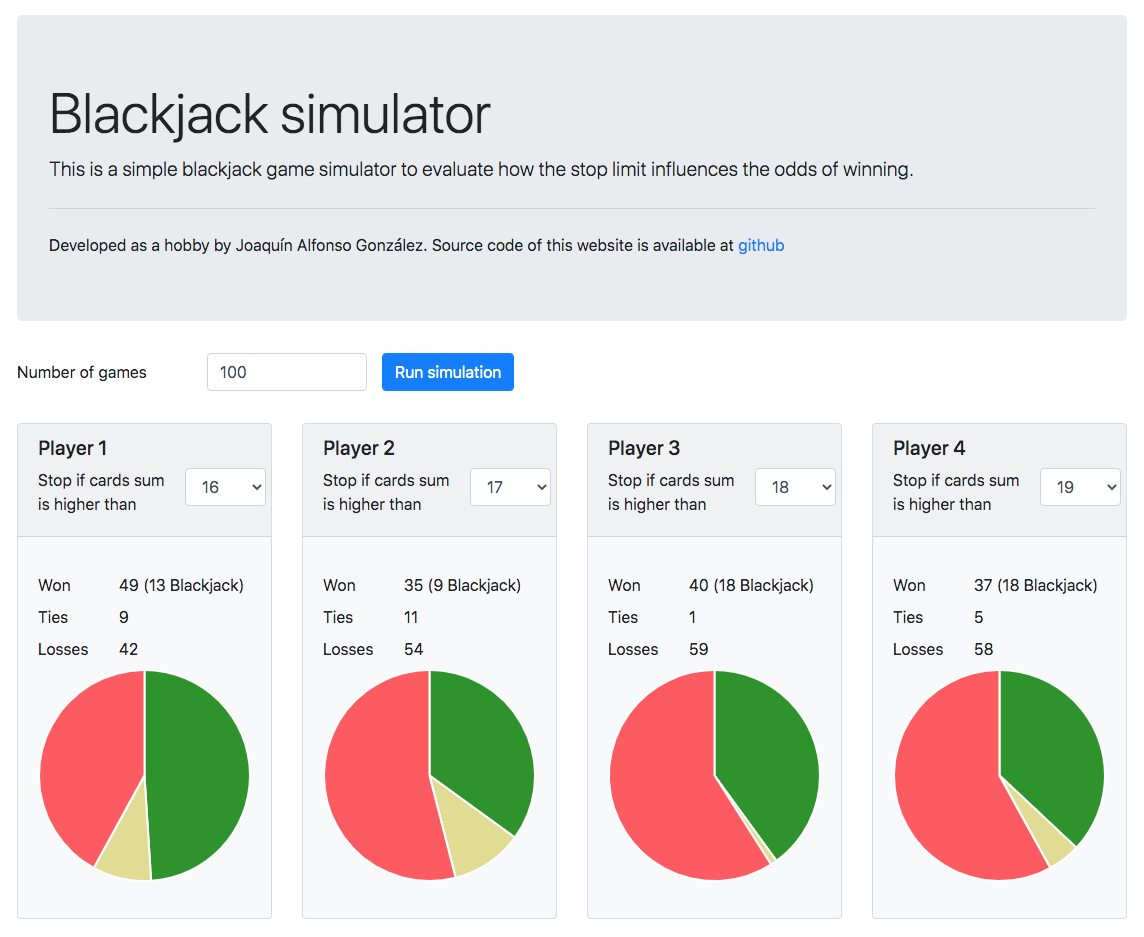
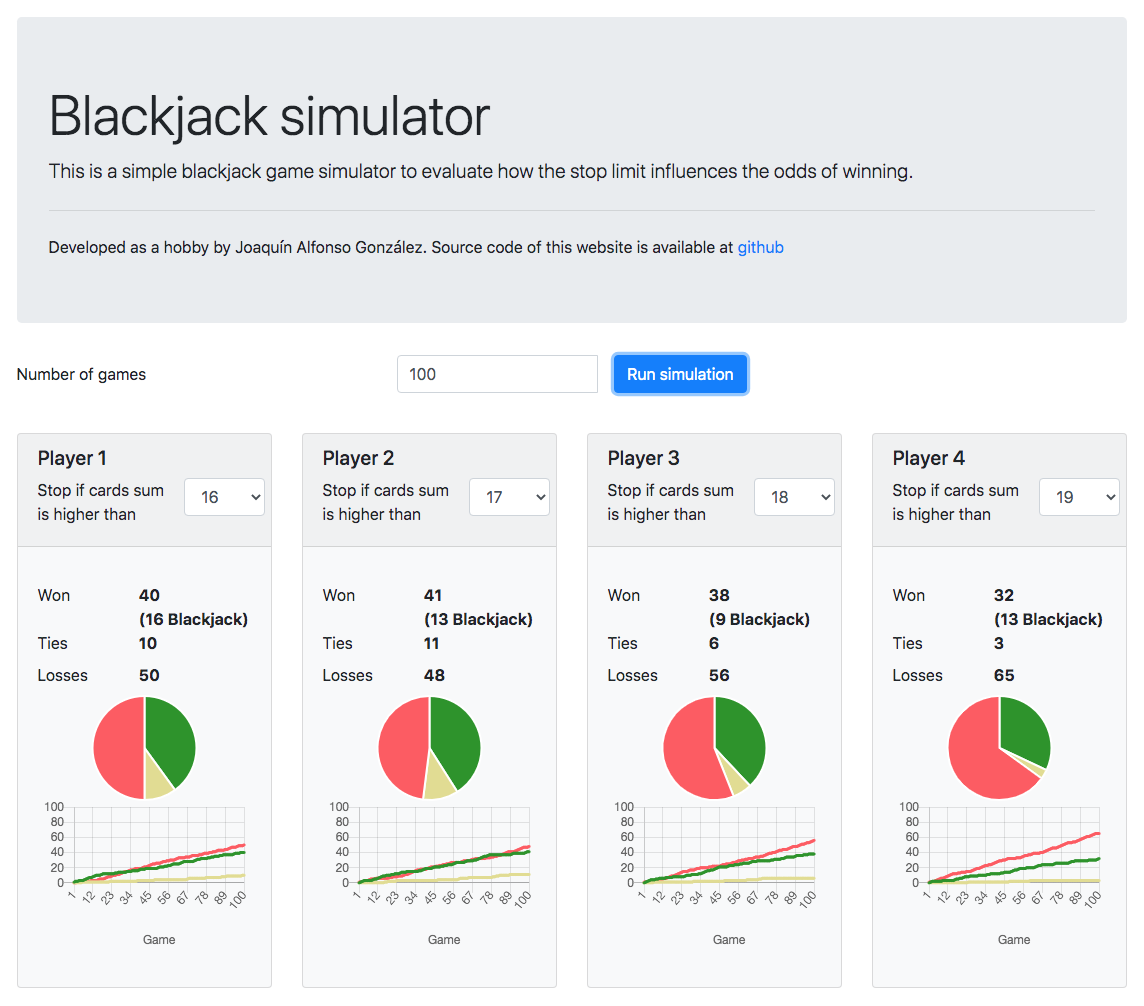
Add data series charts

diff --git a/docs/js/app.js b/docs/js/app.js
@@ -28,13 +28,29 @@ function PlayRounds(roundsNumber, playersLimits, printFunction) {
 		let round = blackjack.Play();
 
 		for (var player = 0; player < players.length; player = player + 1) {
+
 			let roundGameScore = round.scores[player];
 
-			results[player].croupierWins += roundGameScore == GAME_RESULT_CROUPIER_WINS || roundGameScore == GAME_RESULT_CROUPIER_BLACKJACK ? 1 : 0;
-			results[player].playerWins += roundGameScore == GAME_RESULT_PLAYER_BLACKJACK || roundGameScore == GAME_RESULT_PLAYER_WINS ? 1 : 0;
-			results[player].playerBlackJack += roundGameScore == GAME_RESULT_PLAYER_BLACKJACK ? 1 : 0;
-			results[player].draw += roundGameScore == GAME_RESULT_DRAW ? 1 : 0;
+			let playerRound = roundGameScore == GAME_RESULT_PLAYER_BLACKJACK || roundGameScore == GAME_RESULT_PLAYER_WINS ? 1 : 0;
+			let playerBJRound = roundGameScore == GAME_RESULT_PLAYER_BLACKJACK ? 1 : 0;
+			let drawRound = roundGameScore == GAME_RESULT_DRAW ? 1 : 0;
+			let croupierRound = roundGameScore == GAME_RESULT_CROUPIER_WINS || roundGameScore == GAME_RESULT_CROUPIER_BLACKJACK ? 1 : 0;
+
+			results[player].playerWins += playerRound;
+			results[player].playerBlackJack += playerBJRound;
+			results[player].draw += drawRound;
+			results[player].croupierWins += croupierRound;
+
+			
+			results[player].roundSerie.push(i + 1);
+			results[player].playerSerie.push(results[player].playerWins);
+			results[player].playerBlackJackSerie.push(results[player].playerBlackJack);
+        	results[player].drawSerie.push(results[player].draw);
+        	results[player].croupierSerie.push(results[player].croupierWins);
+
 		}
+
+		console.log(results);
 
 		console.log("End Round " + (i + 1));
 	}
@@ -119,6 +135,7 @@ function PrintResults(results) {
 		losses.innerHTML = results[i].croupierWins;
 
 		DrawPieChart("pieChart" + (i + 1), [results[i].playerWins, results[i].draw, results[i].croupierWins]);
+		DrawSeriesChart("seriesChart" + (i + 1), results[i]);
 	}
 }
 
@@ -167,6 +184,85 @@ function DrawPieChart(chartId, data) {
 	};
 
 	let pieChart = new Chart(ctx, config);
+}
+
+
+function DrawSeriesChart(chartId, data) {
+	var ctx = document.getElementById(chartId).getContext("2d");
+
+	var max_of_array = Math.max.apply(Math, data.roundSerie);
+	console.log(max_of_array);
+
+	let seriesChart = new Chart(ctx, {
+		type: "line",
+
+		data: {
+			labels: data.roundSerie,
+			datasets: [
+				{
+					label: "Wons",
+					fill: false,
+					lineTension: 0,
+					backgroundColor: colors.wons, 
+					borderColor: colors.wons, 
+					data: data.playerSerie,
+					pointRadius: 1
+				},
+				{
+					label: "Ties",
+					fill: false,
+					lineTension: 0,
+					backgroundColor: colors.ties, 
+					borderColor: colors.ties, 
+					data: data.drawSerie,
+					pointRadius: 1
+				},
+				{
+					label: "Losses",
+					fill: false,
+					lineTension: 0,
+					backgroundColor: colors.losses,
+					borderColor: colors.losses,
+					data: data.croupierSerie,
+					pointRadius: 1
+				}
+			],
+		},
+		options: {
+			legend: {
+				display: false,
+			},
+			responsive: true,
+			title: {
+				display: false,
+			},
+			hover: {
+				mode: "nearest",
+				intersect: true
+			},
+			scales: {
+				xAxes: [{
+					display: true,
+					scaleLabel: {
+						display: true,
+						labelString: 'Game'
+					}
+				}],
+				yAxes: [{
+					display: true,					
+					scaleLabel: {						
+						display: false,
+						stacked: true,
+						labelString: 'Value'
+					},
+					ticks: {
+						beginAtZero: true,
+						max: max_of_array
+					}
+				}]
+			},			
+		}
+	});
 }
 
 function RunButtonClick() {

diff --git a/src/js/app.js b/src/js/app.js
@@ -28,13 +28,29 @@ function PlayRounds(roundsNumber, playersLimits, printFunction) {
 		let round = blackjack.Play();
 
 		for (var player = 0; player < players.length; player = player + 1) {
+
 			let roundGameScore = round.scores[player];
 
-			results[player].croupierWins += roundGameScore == GAME_RESULT_CROUPIER_WINS || roundGameScore == GAME_RESULT_CROUPIER_BLACKJACK ? 1 : 0;
-			results[player].playerWins += roundGameScore == GAME_RESULT_PLAYER_BLACKJACK || roundGameScore == GAME_RESULT_PLAYER_WINS ? 1 : 0;
-			results[player].playerBlackJack += roundGameScore == GAME_RESULT_PLAYER_BLACKJACK ? 1 : 0;
-			results[player].draw += roundGameScore == GAME_RESULT_DRAW ? 1 : 0;
+			let playerRound = roundGameScore == GAME_RESULT_PLAYER_BLACKJACK || roundGameScore == GAME_RESULT_PLAYER_WINS ? 1 : 0;
+			let playerBJRound = roundGameScore == GAME_RESULT_PLAYER_BLACKJACK ? 1 : 0;
+			let drawRound = roundGameScore == GAME_RESULT_DRAW ? 1 : 0;
+			let croupierRound = roundGameScore == GAME_RESULT_CROUPIER_WINS || roundGameScore == GAME_RESULT_CROUPIER_BLACKJACK ? 1 : 0;
+
+			results[player].playerWins += playerRound;
+			results[player].playerBlackJack += playerBJRound;
+			results[player].draw += drawRound;
+			results[player].croupierWins += croupierRound;
+
+			
+			results[player].roundSerie.push(i + 1);
+			results[player].playerSerie.push(results[player].playerWins);
+			results[player].playerBlackJackSerie.push(results[player].playerBlackJack);
+        	results[player].drawSerie.push(results[player].draw);
+        	results[player].croupierSerie.push(results[player].croupierWins);
+
 		}
+
+		console.log(results);
 
 		console.log("End Round " + (i + 1));
 	}
@@ -119,6 +135,7 @@ function PrintResults(results) {
 		losses.innerHTML = results[i].croupierWins;
 
 		DrawPieChart("pieChart" + (i + 1), [results[i].playerWins, results[i].draw, results[i].croupierWins]);
+		DrawSeriesChart("seriesChart" + (i + 1), results[i]);
 	}
 }
 
@@ -167,6 +184,85 @@ function DrawPieChart(chartId, data) {
 	};
 
 	let pieChart = new Chart(ctx, config);
+}
+
+
+function DrawSeriesChart(chartId, data) {
+	var ctx = document.getElementById(chartId).getContext("2d");
+
+	var max_of_array = Math.max.apply(Math, data.roundSerie);
+	console.log(max_of_array);
+
+	let seriesChart = new Chart(ctx, {
+		type: "line",
+
+		data: {
+			labels: data.roundSerie,
+			datasets: [
+				{
+					label: "Wons",
+					fill: false,
+					lineTension: 0,
+					backgroundColor: colors.wons, 
+					borderColor: colors.wons, 
+					data: data.playerSerie,
+					pointRadius: 1
+				},
+				{
+					label: "Ties",
+					fill: false,
+					lineTension: 0,
+					backgroundColor: colors.ties, 
+					borderColor: colors.ties, 
+					data: data.drawSerie,
+					pointRadius: 1
+				},
+				{
+					label: "Losses",
+					fill: false,
+					lineTension: 0,
+					backgroundColor: colors.losses,
+					borderColor: colors.losses,
+					data: data.croupierSerie,
+					pointRadius: 1
+				}
+			],
+		},
+		options: {
+			legend: {
+				display: false,
+			},
+			responsive: true,
+			title: {
+				display: false,
+			},
+			hover: {
+				mode: "nearest",
+				intersect: true
+			},
+			scales: {
+				xAxes: [{
+					display: true,
+					scaleLabel: {
+						display: true,
+						labelString: 'Game'
+					}
+				}],
+				yAxes: [{
+					display: true,					
+					scaleLabel: {						
+						display: false,
+						stacked: true,
+						labelString: 'Value'
+					},
+					ticks: {
+						beginAtZero: true,
+						max: max_of_array
+					}
+				}]
+			},			
+		}
+	});
 }
 
 function RunButtonClick() {

diff --git a/docs/index.html b/docs/index.html
@@ -80,9 +80,11 @@
                 </div>  
 
                 <div class="form-group mb-2" id="pieChart1Group">
-                  <canvas id="pieChart1" width="100px" height="100px"></canvas>
+                  <canvas id="pieChart1"></canvas>
                 </div>
-
+                <div class="chart-container">
+                  <canvas style="width: 100%; height: 100px;" id="seriesChart1"></canvas>
+                </div>
               </form>
             </p>
           </div>
@@ -123,9 +125,11 @@
                 </div>  
 
                 <div class="form-group mb-2" id="pieChart1Group">
-                  <canvas id="pieChart2" width="100px" height="100px"></canvas>
+                  <canvas id="pieChart2"></canvas>
                 </div>
-
+                <div class="chart-container">
+                  <canvas style="width: 100%; height: 100px;" id="seriesChart2"></canvas>
+                </div>
               </form>
             </p>
           </div>
@@ -166,9 +170,11 @@
                 </div>  
 
                 <div class="form-group mb-2" id="pieChart1Group">
-                  <canvas id="pieChart3" width="100px" height="100px"></canvas>
+                  <canvas id="pieChart3"></canvas>
                 </div>
-
+                <div class="chart-container">
+                  <canvas style="width: 100%; height: 100px;" id="seriesChart3"></canvas>
+                </div>
               </form>
             </p>
           </div>
@@ -209,9 +215,11 @@
                 </div>  
 
                 <div class="form-group mb-2" id="pieChart1Group">
-                  <canvas id="pieChart4" width="100px" height="100px"></canvas>
+                  <canvas id="pieChart4" ></canvas>
                 </div>
-
+                <div class="chart-container">
+                  <canvas style="width: 100%; height: 100px;" id="seriesChart4"></canvas>
+                </div>
               </form>
             </p>
           </div>

diff --git a/src/index.html b/src/index.html
@@ -80,9 +80,11 @@
                 </div>  
 
                 <div class="form-group mb-2" id="pieChart1Group">
-                  <canvas id="pieChart1" width="100px" height="100px"></canvas>
+                  <canvas id="pieChart1"></canvas>
                 </div>
-
+                <div class="chart-container">
+                  <canvas style="width: 100%; height: 100px;" id="seriesChart1"></canvas>
+                </div>
               </form>
             </p>
           </div>
@@ -123,9 +125,11 @@
                 </div>  
 
                 <div class="form-group mb-2" id="pieChart1Group">
-                  <canvas id="pieChart2" width="100px" height="100px"></canvas>
+                  <canvas id="pieChart2"></canvas>
                 </div>
-
+                <div class="chart-container">
+                  <canvas style="width: 100%; height: 100px;" id="seriesChart2"></canvas>
+                </div>
               </form>
             </p>
           </div>
@@ -166,9 +170,11 @@
                 </div>  
 
                 <div class="form-group mb-2" id="pieChart1Group">
-                  <canvas id="pieChart3" width="100px" height="100px"></canvas>
+                  <canvas id="pieChart3"></canvas>
                 </div>
-
+                <div class="chart-container">
+                  <canvas style="width: 100%; height: 100px;" id="seriesChart3"></canvas>
+                </div>
               </form>
             </p>
           </div>
@@ -209,9 +215,11 @@
                 </div>  
 
                 <div class="form-group mb-2" id="pieChart1Group">
-                  <canvas id="pieChart4" width="100px" height="100px"></canvas>
+                  <canvas id="pieChart4" ></canvas>
                 </div>
-
+                <div class="chart-container">
+                  <canvas style="width: 100%; height: 100px;" id="seriesChart4"></canvas>
+                </div>
               </form>
             </p>
           </div>

diff --git a/docs/js/result.js b/docs/js/result.js
@@ -4,6 +4,11 @@ export class Result {
         this.croupierWins = 0;
         this.playerWins = 0;
         this.playerBlackJack = 0;
-        this.draw = 0;        
+        this.draw = 0;     
+        this.roundSerie = [];
+        this.playerSerie = [];
+        this.playerBlackJackSerie = [];
+        this.croupierSerie = [];
+        this.drawSerie = [];
     }
 }

diff --git a/src/js/result.js b/src/js/result.js
@@ -4,6 +4,11 @@ export class Result {
         this.croupierWins = 0;
         this.playerWins = 0;
         this.playerBlackJack = 0;
-        this.draw = 0;        
+        this.draw = 0;     
+        this.roundSerie = [];
+        this.playerSerie = [];
+        this.playerBlackJackSerie = [];
+        this.croupierSerie = [];
+        this.drawSerie = [];
     }
 }
